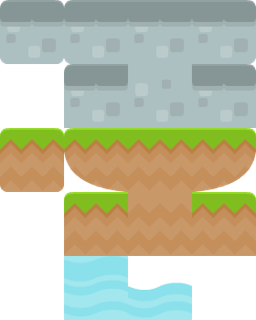
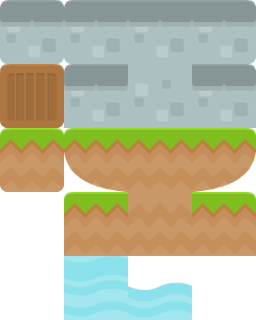
added bottom tray

Changed region(s): [[0.0, 0.1875, 0.25, 0.4062]]

diff --git a/build/tilo.js b/build/tilo.js
@@ -19,6 +19,8 @@ module.exports=module.exports={
     'earth-': [2, 3],
     'earth-ne': [3, 3],
 
+    'wood-nesw': [0, 1], 'wood-': [0, 1],
+
     'water-': [1, 4],
     'water-n': [2, 4]
   }
@@ -101,6 +103,10 @@ exports.spritesheet = function(imageSrcOrObject, map, px) {
     map = imageSrcOrObject.map;
     px = imageSrcOrObject.px;
   }
+
+  this.px = function() {
+    return px;
+  };
   
   this.load = function(callback) {
     image = new Image();
@@ -125,7 +131,8 @@ require('./extended-lodash.js');
 
 var tilo = {
   spritesheet: require('./spritesheet.js').spritesheet,
-  board: require('./board.js').board
+  board: require('./board.js').board,
+  tray: require('./tray.js').tray
 };
 window.tilo = tilo;
 
@@ -155,12 +162,56 @@ _.times(Math.floor(Math.random() * 5), function(i) {
 Math.floor(Math.random() * 2) || 
   boards.fore.fill(0, boards.fore.bottom() - Math.round(Math.random() * 4), boards.fore.right(), boards.fore.bottom(), 'water')
 
+// tray
+var tray = new tilo.tray(1024, 128, document.getElementById('canvas-tray').getContext('2d'));
+tray.add(['earth', 'stone', 'wood']);
 
 // get started
 var sheet = new tilo.spritesheet(require('../images/kenney-64.json'));
 sheet.load(function() {
   boards.mid.draw(this);
   boards.fore.draw(this);
+  tray.draw(this);
 });
-},{"../images/kenney-64.json":1,"./board.js":2,"./extended-lodash.js":3,"./spritesheet.js":4}]},{},[5])
+},{"../images/kenney-64.json":1,"./board.js":2,"./extended-lodash.js":3,"./spritesheet.js":4,"./tray.js":6}],6:[function(require,module,exports){
+exports.tray = function(width, height, canvasContext) {
+	var items = [], selectedIndex = 0, that = this;
+
+	this.add = function(tileType) {
+		_.contains(items, tileType) || (items = items.concat(tileType));
+	};
+
+	this.remove = function(tileType) {
+		_.pull(items, tileType);
+		return that;
+	};
+
+	this.select = function(tileTypeOrIndex) {
+		if (_.isNumber(tileTypeOrIndex)) { return items[tileTypeOrIndex]; }
+		selectedIndex = _.indexOf(items, tileTypeOrIndex);
+	};
+
+	this.selected = function() {
+		return _items[selectedIndex];
+	};
+
+	this.draw = function(spritesheet) {
+		var px = spritesheet.px();
+
+		// highlight selected item
+		var gradX = px/2 + ((1 + selectedIndex * 2) * px);
+		var grad = canvasContext.createRadialGradient(gradX, px, 0, gradX, px, px);
+  		grad.addColorStop(0, 'rgba(1, 255, 255, 1)');
+  		grad.addColorStop(1, 'rgba(1, 159, 98, 0)');
+  		canvasContext.fillStyle = grad;
+  		canvasContext.fillRect(0, 0, width, height);
+
+		_.each(items, function(item, index) {
+			spritesheet.draw(item, 'nesw', 1 + index * 2, 0.5, canvasContext);
+		});
+
+	    return that;
+	};
+};
+},{}]},{},[5])
 ;

diff --git a/src/tray.js b/src/tray.js
@@ -1,0 +1,39 @@
+exports.tray = function(width, height, canvasContext) {
+	var items = [], selectedIndex = 0, that = this;
+
+	this.add = function(tileType) {
+		_.contains(items, tileType) || (items = items.concat(tileType));
+	};
+
+	this.remove = function(tileType) {
+		_.pull(items, tileType);
+		return that;
+	};
+
+	this.select = function(tileTypeOrIndex) {
+		if (_.isNumber(tileTypeOrIndex)) { return items[tileTypeOrIndex]; }
+		selectedIndex = _.indexOf(items, tileTypeOrIndex);
+	};
+
+	this.selected = function() {
+		return _items[selectedIndex];
+	};
+
+	this.draw = function(spritesheet) {
+		var px = spritesheet.px();
+
+		// highlight selected item
+		var gradX = px/2 + ((1 + selectedIndex * 2) * px);
+		var grad = canvasContext.createRadialGradient(gradX, px, 0, gradX, px, px);
+  		grad.addColorStop(0, 'rgba(1, 255, 255, 1)');
+  		grad.addColorStop(1, 'rgba(1, 159, 98, 0)');
+  		canvasContext.fillStyle = grad;
+  		canvasContext.fillRect(0, 0, width, height);
+
+		_.each(items, function(item, index) {
+			spritesheet.draw(item, 'nesw', 1 + index * 2, 0.5, canvasContext);
+		});
+
+	    return that;
+	};
+};

diff --git a/src/tilo.js b/src/tilo.js
@@ -2,7 +2,8 @@ require('./extended-lodash.js');
 
 var tilo = {
   spritesheet: require('./spritesheet.js').spritesheet,
-  board: require('./board.js').board
+  board: require('./board.js').board,
+  tray: require('./tray.js').tray
 };
 window.tilo = tilo;
 
@@ -32,10 +33,14 @@ _.times(Math.floor(Math.random() * 5), function(i) {
 Math.floor(Math.random() * 2) || 
   boards.fore.fill(0, boards.fore.bottom() - Math.round(Math.random() * 4), boards.fore.right(), boards.fore.bottom(), 'water')
 
+// tray
+var tray = new tilo.tray(1024, 128, document.getElementById('canvas-tray').getContext('2d'));
+tray.add(['earth', 'stone', 'wood']);
 
 // get started
 var sheet = new tilo.spritesheet(require('../images/kenney-64.json'));
 sheet.load(function() {
   boards.mid.draw(this);
   boards.fore.draw(this);
+  tray.draw(this);
 });

diff --git a/tilo.html b/tilo.html
@@ -28,12 +28,8 @@
     #canvas-fore {
     	opacity: 0.65;
     }
-    #tray {
-      position: absolute;
+    #canvas-tray {
       top: 640px;
-      left: 0;
-      height: 128px;
-      width: 1024px;
       background-color: black;
     }
   </style>
@@ -41,10 +37,9 @@
 <body>
   
   <div id="game">
-	  <canvas id="canvas-back" width="1024" height="768"></canvas>
 	  <canvas id="canvas-mid" width="1024" height="768"></canvas>
 	  <canvas id="canvas-fore" width="1024" height="768"></canvas>
-    <div id="tray"></div>
+    <canvas id="canvas-tray" width="1024" height="128"></canvas>
   </div>
   
   <script src="http://cdnjs.cloudflare.com/ajax/libs/lodash.js/2.0.0/lodash.min.js" type ="text/javascript"></script>

diff --git a/src/spritesheet.js b/src/spritesheet.js
@@ -10,6 +10,10 @@ exports.spritesheet = function(imageSrcOrObject, map, px) {
     map = imageSrcOrObject.map;
     px = imageSrcOrObject.px;
   }
+
+  this.px = function() {
+    return px;
+  };
   
   this.load = function(callback) {
     image = new Image();
